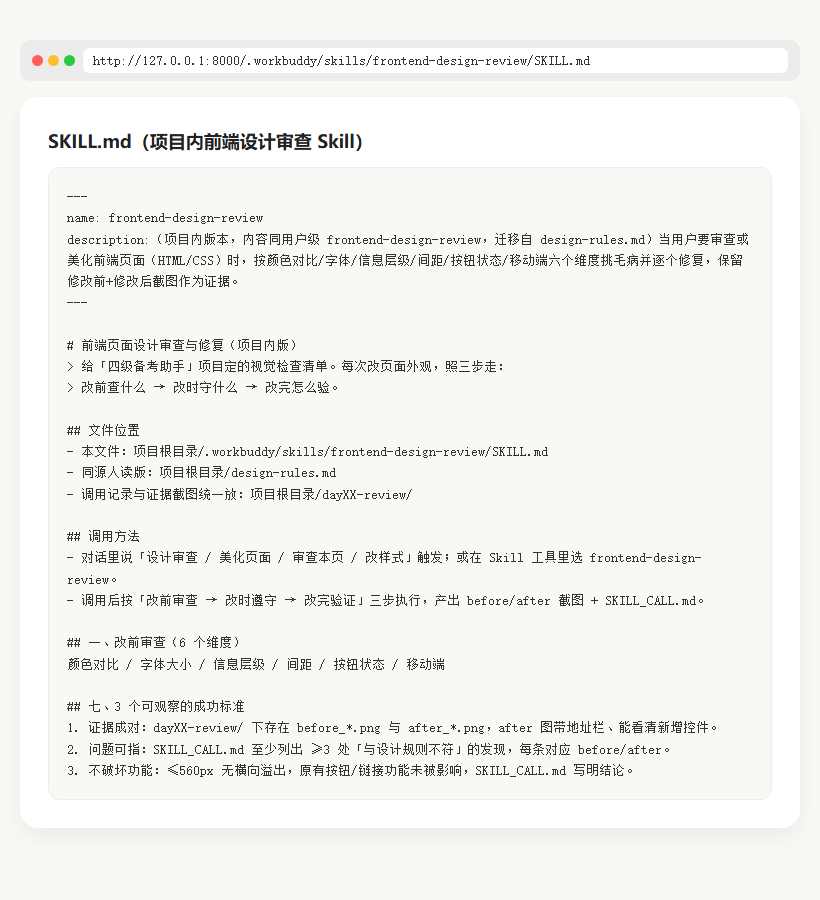
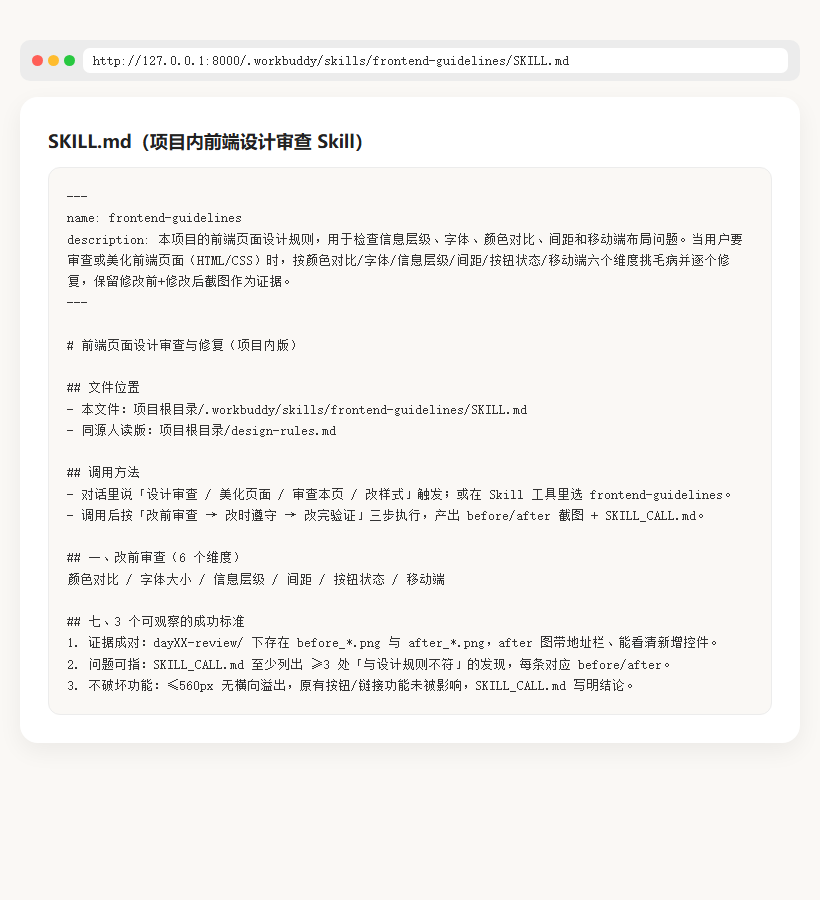
Day 12｜Skill 按附录G更名 frontend-guidelines
改了什么：项目内 Skill 文件夹与 name 字段由 frontend-design-review 更名为 frontend-guidelines（附录G规定名），description 补上课程规范开头句，文件内路径引用同步更新。
加了什么：skill_file.png 重截（显示新名），skill_view.html / SKILL_CALL.md 同步改名。

diff --git a/day12-review/skill_view.html b/day12-review/skill_view.html
@@ -21,26 +21,23 @@
     <!-- 假地址栏，URL 以 SKILL.md 结尾，证明这是项目内的 Skill 文件 -->
     <div class="addr-bar">
       <div class="dots"><span class="dot r"></span><span class="dot y"></span><span class="dot g"></span></div>
-      <span class="url">http://127.0.0.1:8000/.workbuddy/skills/frontend-design-review/SKILL.md</span>
+      <span class="url">http://127.0.0.1:8000/.workbuddy/skills/frontend-guidelines/SKILL.md</span>
     </div>
     <div class="card">
       <div class="file-head">SKILL.md（项目内前端设计审查 Skill）</div>
       <pre>---
-name: frontend-design-review
-description:（项目内版本，内容同用户级 frontend-design-review，迁移自 design-rules.md）当用户要审查或美化前端页面（HTML/CSS）时，按颜色对比/字体/信息层级/间距/按钮状态/移动端六个维度挑毛病并逐个修复，保留修改前+修改后截图作为证据。
+name: frontend-guidelines
+description: 本项目的前端页面设计规则，用于检查信息层级、字体、颜色对比、间距和移动端布局问题。当用户要审查或美化前端页面（HTML/CSS）时，按颜色对比/字体/信息层级/间距/按钮状态/移动端六个维度挑毛病并逐个修复，保留修改前+修改后截图作为证据。
 ---
 
 # 前端页面设计审查与修复（项目内版）
-> 给「四级备考助手」项目定的视觉检查清单。每次改页面外观，照三步走：
-> 改前查什么 → 改时守什么 → 改完怎么验。
 
 ## 文件位置
-- 本文件：项目根目录/.workbuddy/skills/frontend-design-review/SKILL.md
+- 本文件：项目根目录/.workbuddy/skills/frontend-guidelines/SKILL.md
 - 同源人读版：项目根目录/design-rules.md
-- 调用记录与证据截图统一放：项目根目录/dayXX-review/
 
 ## 调用方法
-- 对话里说「设计审查 / 美化页面 / 审查本页 / 改样式」触发；或在 Skill 工具里选 frontend-design-review。
+- 对话里说「设计审查 / 美化页面 / 审查本页 / 改样式」触发；或在 Skill 工具里选 frontend-guidelines。
 - 调用后按「改前审查 → 改时遵守 → 改完验证」三步执行，产出 before/after 截图 + SKILL_CALL.md。
 
 ## 一、改前审查（6 个维度）

diff --git a/day12-review/SKILL_CALL.md b/day12-review/SKILL_CALL.md
@@ -1,7 +1,7 @@
-# Day 12｜frontend-design-review Skill 调用记录
+# Day 12｜frontend-guidelines Skill 调用记录
 
 - **调用时间**：2026-09-30
-- **调用方式**：按项目内 Skill `.workbuddy/skills/frontend-design-review/SKILL.md` 的「改前查 → 改时守 → 改完验」三步执行
+- **调用方式**：按项目内 Skill `.workbuddy/skills/frontend-guidelines/SKILL.md` 的「改前查 → 改时守 → 改完验」三步执行
 - **审查对象**：Day 12 新增的「错题清单 + 关键词搜索框」（review.html / review.js / style.css）
 
 ## 一、改前审查（6 维度结论）
